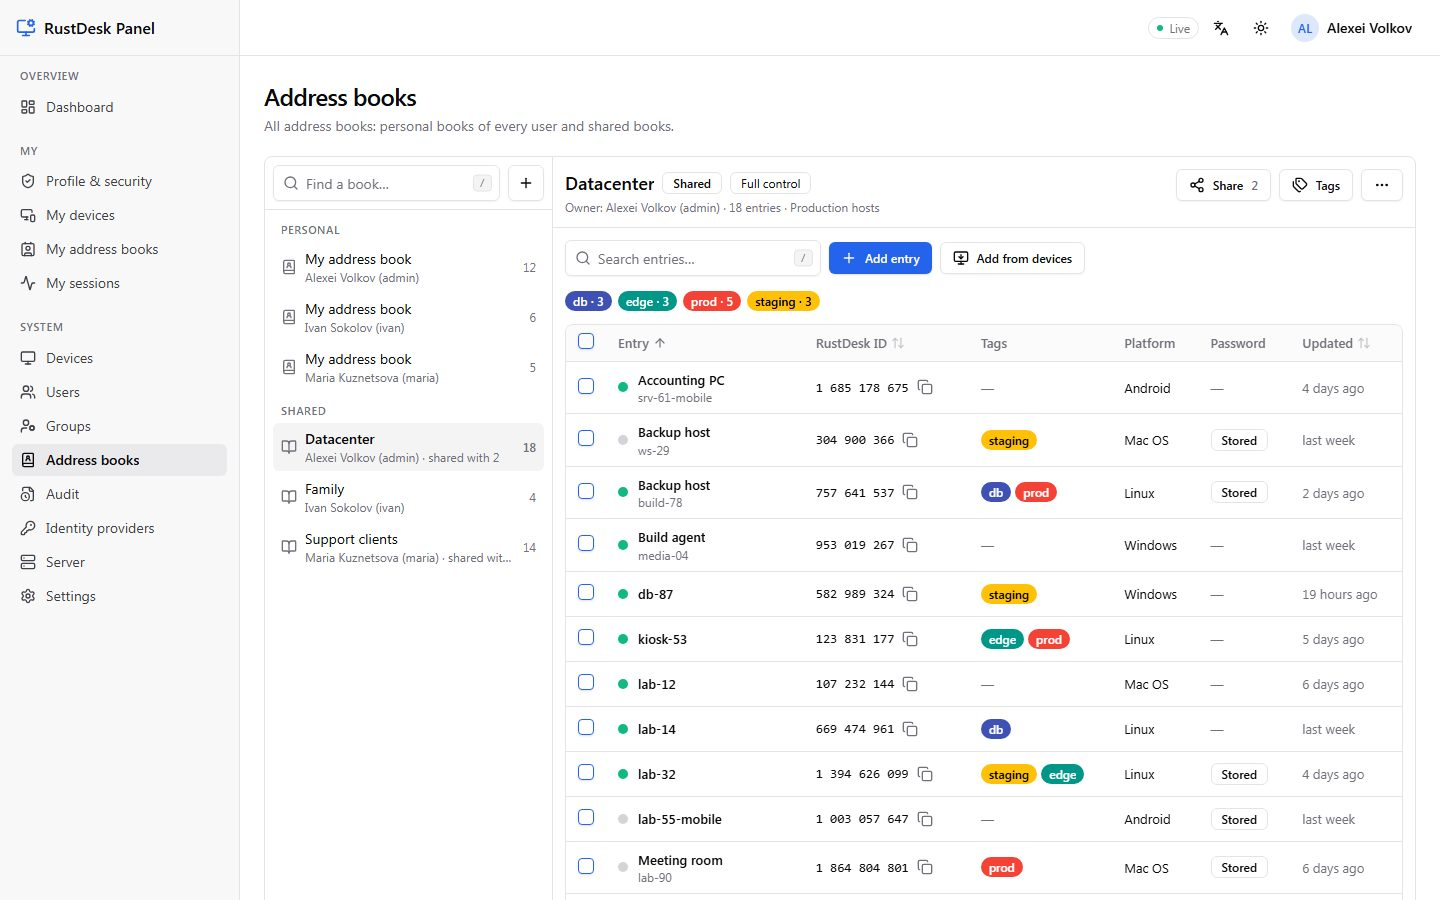
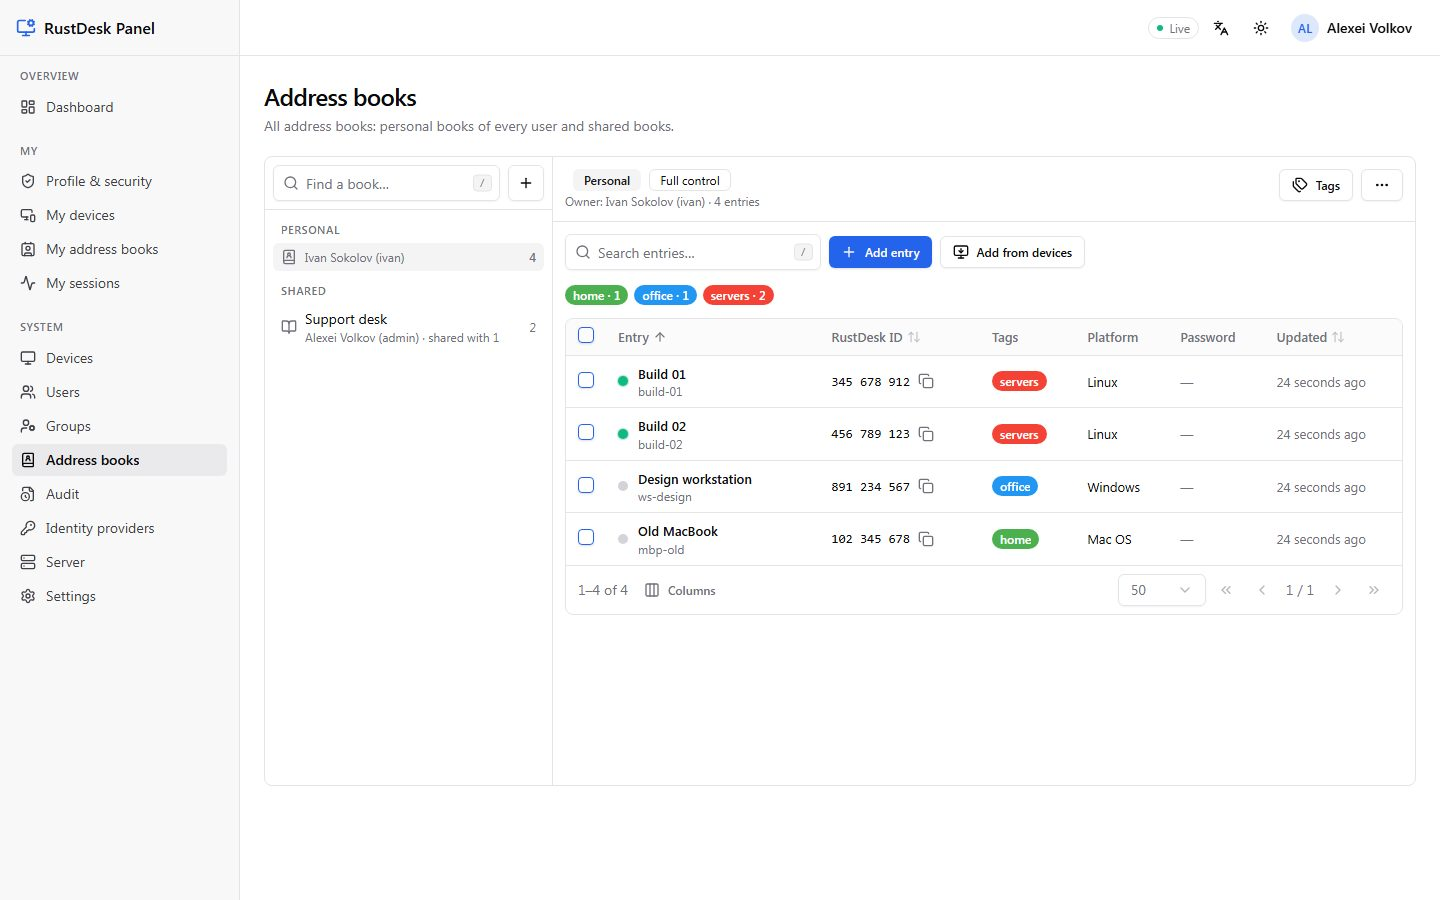
docs: screenshots from the real backend with seeded data
All docs/screenshots except profile.jpg (needs linked OIDC identities; kept
from the mock build) are now taken from bin/rdpanel with seed-demo data and
live hbbs/hbbr (npm run screenshots:real). README documents the real e2e.
Also: the 2FA disable hint says password OR code (what the API accepts).

diff --git a/web/e2e/real/screenshots.spec.ts b/web/e2e/real/screenshots.spec.ts
@@ -104,7 +104,7 @@ test.describe("@screenshots", () => {
     await shot(page, "my-devices");
   });
 
-  test("dark and russian", async ({ page }) => {
+  test("dark", async ({ page }) => {
     await theme(page, "dark");
     await loginAdmin(page);
     await page.goto("/");
@@ -118,7 +118,7 @@ test.describe("@screenshots", () => {
     await page.goto("/login");
     await page.getByLabel("Имя пользователя").fill("admin");
     await page.getByLabel("Пароль").fill(process.env.E2E_ADMIN_PASSWORD ?? "e2e-admin-password-1");
-    await page.getByRole("button", { name: "Войти" }).click();
+    await page.getByRole("button", { name: "Войти", exact: true }).click();
     await expect(page).not.toHaveURL(/\/login/);
     await page.goto("/devices");
     await shot(page, "devices-ru");

diff --git a/README.md b/README.md
@@ -38,7 +38,13 @@ For UI development run `rdpanel serve` and `cd web && npm run dev` (Vite proxies
 Without a backend, `npm run dev:mock` serves the whole admin API from an in-memory dataset
 (Mock Service Worker; sign in as `admin`/`admin`, TOTP `123456`). `npm run build:mock` writes
 a mock build to `web/dist-mock` (never embedded); `npm run e2e` and `npm run screenshots`
-drive it with Playwright (`docs/screenshots/`).
+drive it with Playwright.
+
+End-to-end against the real backend: `make web build && scripts/e2e-server.sh` starts
+`bin/rdpanel` on `:31114` with a fresh database, an admin and demo data seeded through the
+client API (`scripts/seed-demo`; add `HBB_BIN=<dir with hbbs, hbbr>` for live hbbs/hbbr),
+then `cd web && npm run e2e:real` (set `E2E_HBBS=1` with hbbs) runs `web/e2e/real`, and
+`npm run screenshots:real` refreshes `docs/screenshots/`.
 
 ### Commands
 
